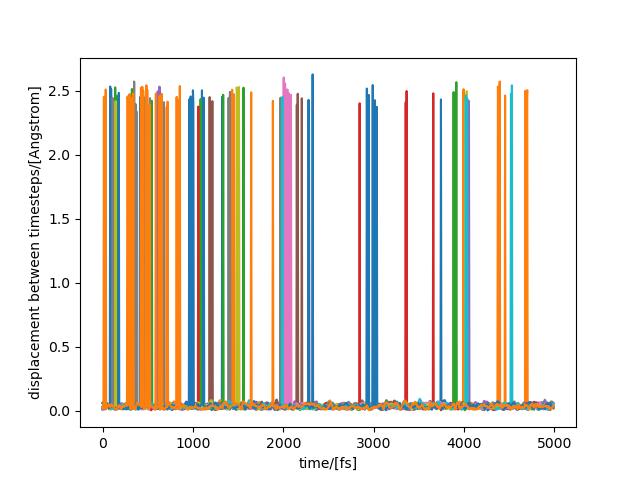
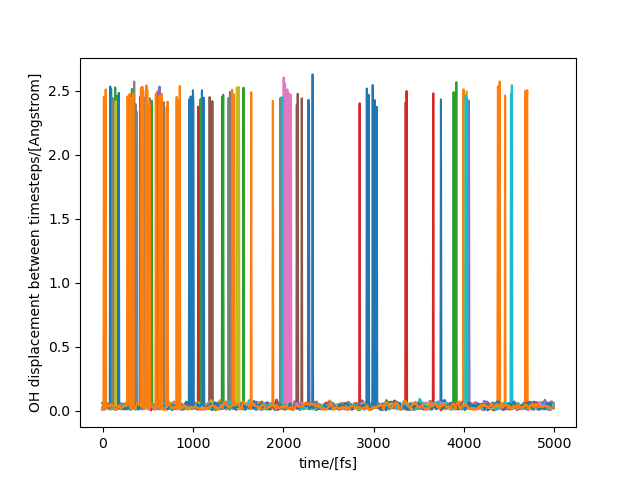
new results, new errors

Changed region(s): [[0.0312, 0.1562, 0.0625, 0.875]]

diff --git a/post-processing scripts/KOH systems/mpi_python.py b/post-processing scripts/KOH systems/mpi_python.py
@@ -70,8 +70,7 @@ class Prot_Hop:
                     data_s = self.df.structure[:].to_dict()
                     data_f = self.df.force[:].to_dict()
                 except:
-                    skips = 10
-                    print("no ML_OUTBLOCK in INCAR, skips is set to 10", flush=True)
+                    skips = 1
                     data_s = self.df.structure[skips-1::skips].to_dict()
                     data_f = self.df.force[skips-1::skips].to_dict()
                 
@@ -104,10 +103,13 @@ class Prot_Hop:
                 # load new forces and add to old array
                 force = data_f['forces']
                 self.force = np.concatenate((self.force, force), axis=0)
+
+        self.t = np.arange(self.pos_all.shape[0])*self.dt
         
         # After putting multiple simulations together
         self.pos_all_split = np.array_split(self.pos_all, self.size, axis=0)
         self.force_split = np.array_split(self.force, self.size, axis=0)
+        self.t_split = np.array_split(self.t, self.size)
 
         # calculate chunk sizes for communication
         self.chunks = [int]*self.size
@@ -167,11 +169,13 @@ class Prot_Hop:
             self.pos_all_split = [np.empty((self.chunks[i], self.N_tot, 3)) for i in range(self.size)]  # create empty dumy on all cores
             self.force_split = [np.empty((self.chunks[i], self.N_tot, 3)) for i in range(self.size)]  # create empty dumy on all cores
             self.steps_split = [np.empty(self.chunks[i]) for i in range(self.size)]
+            self.t_split = [np.empty(self.chunks[i]) for i in range(self.size)]
 
         # Import the correct split position arrays
         self.pos = self.comm.scatter(self.pos_all_split, root=0)
         self.force = self.comm.scatter(self.force_split, root=0)
         self.steps = self.comm.scatter(self.steps_split, root=0)
+        self.t = self.comm.scatter(self.t_split, root=0)
         
         self.n_max = len(self.pos[:, 0, 0])  # number of timestep on core
         self.n_max_all = self.comm.allreduce(self.n_max, op=MPI.SUM)
@@ -184,7 +188,7 @@ class Prot_Hop:
         self.cheap = self.comm.bcast(self.cheap, root=0)
                     
         if self.rank == 0 and self.verbose is True:
-            print('Time after communication', time.time() - self.tstart)
+            print('Time after communication', time.time() - self.tstart, flush=True)
 
     def recognize_molecules(self, n):
         """
@@ -233,10 +237,18 @@ class Prot_Hop:
             self.OH_i_s = OH_i  # set this in the first timestep
         else:
             if self.N_OH != self.n_OH[n] or self.n_H3O[n] > 0:  # Exemption for H3O+ cases
-                print(f"Strange behaviour found, H3O+ created. Rank", self.rank, 'timestep ', self.steps[n])
+                print(f"Strange behaviour found, H3O+ created. Rank", self.rank, 'timestep ', self.t[n])
                 print(f"N_H3O+", self.n_H3O[n], 'N_OH', self.n_OH[n], flush=True)
+                
+                # issues = np.setdiff1d(OH_i, self.OH_i[n])
+                # for i in issues:
+                self.OH_i[n, :] = self.OH_i[n-1, :]  # use origional sorting by using last version as nothing changed
+                self.OH[n, :, :] = self.pos_O[n, self.OH_i[n, :], :] + self.L*self.OH_shift
+                
+                self.H2O_i[n, :] = self.H2O_i[n-1, :]  # use origional sorting by using last version as nothing changed
+                self.H2O[n, :, :] = self.pos_O[n, self.H2O_i[n, :], :] + self.L*self.H2O_shift
 
-            if (OH_i == self.OH_i_s).all():  # No reaction occured only check PBC
+            elif (OH_i == self.OH_i_s).all():  # No reaction occured only check PBC
                 self.OH_i[n, :] = self.OH_i[n-1, :]  # use origional sorting by using last version as nothing changed
                 self.OH[n, :, :] = self.pos_O[n, self.OH_i[n, :], :] + self.L*self.OH_shift
                 
@@ -259,7 +271,7 @@ class Prot_Hop:
 
                     if d2[i_n] > 9:  # excape when jump too large
                         print("Strange behaviour found, reaction jump too far, d = ", np.sqrt(d2[i_n]), 'Angstrom',
-                                        "CPU rank=", self.rank, 'timestep', self.steps[n], flush=True)
+                              "CPU rank=", self.rank, 'timestep', self.steps[n], flush=True)
 
                     idx_OH_i = np.where(self.OH_i[n-1, :] == diff_old[i]) # get index in OH_i storage list
                     self.OH_i[n, idx_OH_i] = diff_new[i_n]  # update OH_i storage list
@@ -277,14 +289,15 @@ class Prot_Hop:
                     # Adjust for different PBC shifts in reaction
                     dis = (self.pos_O[n, self.H2O_i[n, idx_H2O_i], :] - self.pos_O[n-1, self.H2O_i[n-1, idx_H2O_i], :] + self.L/2) % self.L - self.L/2   # displacement vs old location
                     real_loc =self.pos_O[n-1, self.H2O_i[n-1, idx_H2O_i], :] + dis
-                    self.H2O_shift[idx_H2O_i, :] += np.round(real_loc - self.pos_O[n, self.H2O_i[n, idx_H2O_i], :]).astype(int)  # Correct shifting update for index
+                    self.H2O_shift[idx_H2O_i, :] += np.round((real_loc - self.pos_O[n, self.H2O_i[n, idx_H2O_i], :])/self.L).astype(int)  # Correct shifting update for index
+                    
                 
                 # Update all the positions
                 self.OH[n, :, :] = self.pos_O[n, self.OH_i[n, :], :] + self.L*self.OH_shift
                 self.H2O[n, :, :] = self.pos_O[n, self.H2O_i[n, :], :]+ self.L*self.H2O_shift
                 self.OH_i_s = OH_i  # always sort after reaction or initiation to have a cheap check lateron.
 
-    def loop_timesteps_all(self, n_samples=1): 
+    def loop_timesteps_all(self, n_samples=10): 
         """This function loops over all timesteps and tracks all over time properties
         
         The function tracks calls the molecule recognition function and the rdf functions when needed.
@@ -407,6 +420,9 @@ class Prot_Hop:
         # prepair gethering on all cores 1) All H3O+ stuf   f
         self.n_H3O = self.comm.gather(self.n_H3O, root=0)
         
+        # gather the time arrays as well
+        self.t = self.comm.gather(self.t, root=0)
+        
         # RDF's
         # First rescale all RDFs accordingly also prepaire for averaging using mpi.sum
         self.r_cent = (self.r[:-1] + self.r[1:])/2  # central point of rdf bins
@@ -486,7 +502,7 @@ class Prot_Hop:
                     self.H2O[n+1][:, [index, b_index[0]], :] = self.H2O[n+1][:, [b_index[0], index], :]
                     self.H2O_shift[n+1][[index, b_index[0]], :] = self.H2O_shift[n+1][[b_index[0], index], :]
             
-            #### this part only activates if there are reactions at stichting location
+            #### these two for loops only activate if there are reactions at stichting location
             idx_H2O = np.zeros_like(H2O_not_found, dtype=int)
             for i, H2O_i in enumerate(H2O_not_found):
                 idx_H2O[i] = np.where(self.H2O_i[n][-1, :] == H2O_i)[0][0]
@@ -508,13 +524,18 @@ class Prot_Hop:
                 OH_new = H2O_old
                 H2O_new = OH_old
                 
-                # check if index of OH_new is already the right one
                 idx_OH_new = np.where(self.OH_i[n+1][0, :] == OH_new)[0][0]
+                idx_H2O_new = np.where(self.H2O_i[n+1][0, :] == H2O_new)[0][0]
+                # check if index of OH_new is already the right one
+                
+                if self.verbose is True:
+                    print('matching up OH', OH_old, OH_new, idx_OH_old, idx_OH_new)
+                    print('matching up H2O', H2O_old, H2O_new, idx_H2O_old, idx_H2O_new)
                 if idx_OH_new != idx_OH_old: ## if not, swap around
                     self.OH_i[n+1][:, [idx_OH_old, idx_OH_new]] = self.OH_i[n+1][:, [idx_OH_new, idx_OH_old]]
                     self.OH[n+1][:, [idx_OH_old, idx_OH_new], :] = self.OH[n+1][:, [idx_OH_new, idx_OH_old], :]
                     self.OH_shift[n+1][[idx_OH_old, idx_OH_new], :] = self.OH_shift[n+1][[idx_OH_new, idx_OH_old], :]
-                idx_H2O_new = np.where(self.H2O_i[n+1][0, :] == H2O_new)[0][0]
+                
                 if idx_H2O_new != idx_H2O_old: ## if not, swap around
                     self.H2O_i[n+1][:, [idx_H2O_new, idx_H2O_new]] = self.H2O_i[n+1][:, [idx_H2O_new, idx_H2O_old]]
                     self.H2O[n+1][:, [idx_H2O_old, idx_H2O_new], :] = self.H2O[n+1][:, [idx_H2O_new, idx_H2O_old], :]
@@ -522,10 +543,16 @@ class Prot_Hop:
                 # so now we now for sure that idx_H2O_old=idx_H2O_new and index_OH_old=index_OH_new
                 # and that H2O_old=OH_new and that OH_old=H2O_new
                 
-                # Only check for pbc during a reaction for the OH and the H2O
+                # Only check for pbc during a reaction for the OH
                 dis = (self.OH[n+1][0, idx_OH_old, :] - self.OH[n][-1, idx_OH_old, :] + self.L/2) % self.L - self.L/2
                 real_loc = self.OH[n][-1, idx_OH_old, :] + dis
-                self.OH_shift[]
+                self.OH_shift[n][idx_OH_old, :] = np.round((real_loc - self.OH[n+1][0, idx_OH_old, :])/self.L).astype(int)
+                print(self.OH_shift[n][idx_OH_old, :], self.OH_shift[n+1][idx_OH_old, :])
+                
+                # Only check for pbc during a reaction for the H2O
+                dis = (self.H2O[n+1][0, idx_H2O_old, :] - self.H2O[n][-1, idx_H2O_old, :] + self.L/2) % self.L - self.L/2
+                real_loc = self.H2O[n][-1, idx_H2O_old, :] + dis
+                self.H2O_shift[n][idx_H2O_old, :] = np.round((real_loc - self.H2O[n+1][0, idx_H2O_old, :])/self.L).astype(int)
             #### Till here
 
             # Now adjust for passing PBC in the shift collumns. OH-
@@ -553,7 +580,7 @@ class Prot_Hop:
         # RDF functionality has no need to do anything
         
         # Getting a time array
-        self.t = np.arange(self.OH_i.shape[0])*self.dt
+        self.t = np.concatenate(self.t, axis=0)
 
     def test_combining(self):
         if self.rank == 0:
@@ -588,8 +615,18 @@ class Prot_Hop:
                 plt.figure()
                 plt.plot(self.t[:-1], disp)
                 plt.xlabel('time/[fs]')      
-                plt.ylabel('displacement between timesteps/[Angstrom]')
+                plt.ylabel('OH displacement between timesteps/[Angstrom]')
                 plt.savefig(path + r'/dis_OH.png')
+                plt.close()
+                
+                disp = np.sqrt(np.sum((self.H2O[1:, :, :]- self.H2O[:-1, :, :])**2, axis=2))
+                plt.figure()
+                plt.plot(self.t[:-1], disp)
+                # for i in range(1, self.size):
+                #     plt.axvline(x=self.t[-1]*i/self.size, color = 'c')
+                plt.xlabel('time/[fs]')      
+                plt.ylabel('H2O displacement between timesteps/[Angstrom]')
+                plt.savefig(path + r'/dis_H2O.png')
                 plt.close()
                 
                 plt.figure()
@@ -662,11 +699,21 @@ class Prot_Hop:
                 disp = np.sqrt(np.sum((self.OH[1:, :, :]- self.OH[:-1, :, :])**2, axis=2))
                 plt.figure()
                 plt.plot(self.t[:-1], disp)
-                for i in range(1, self.size):
-                    plt.axvline(x=self.t[-1]*i/self.size, color = 'c')
+                # for i in range(1, self.size):
+                #     plt.axvline(x=self.t[-1]*i/self.size, color = 'c')
                 plt.xlabel('time/[fs]')      
-                plt.ylabel('displacement between timesteps/[Angstrom]')
+                plt.ylabel('OH displacement between timesteps/[Angstrom]')
                 plt.savefig(path + r'/dis_OH.png')
+                plt.close()
+                
+                disp = np.sqrt(np.sum((self.H2O[1:, :, :]- self.H2O[:-1, :, :])**2, axis=2))
+                plt.figure()
+                plt.plot(self.t[:-1], disp)
+                # for i in range(1, self.size):
+                #     plt.axvline(x=self.t[-1]*i/self.size, color = 'c')
+                plt.xlabel('time/[fs]')      
+                plt.ylabel('H2O displacement between timesteps/[Angstrom]')
+                plt.savefig(path + r'/dis_H2O.png')
                 plt.close()
                 
                 plt.figure()
@@ -685,7 +732,7 @@ class Prot_Hop:
 # Traj = Prot_Hop(r"/mnt/c/Users/vlagerweij/Documents/TU jaar 6/Project KOH(aq)/Repros/RPBE_Production/MLMD/100ps_Exp_Density/i_1")
 # Traj = Prot_Hop(r"/Users/vlagerweij/Documents/TU jaar 6/Project KOH(aq)/Repros/RPBE_Production/MLMD/100ps_Exp_Density/i_1")
 # Traj = Prot_Hop(r"/Users/vlagerweij/Documents/TU jaar 6/Project KOH(aq)/Repros/RPBE_Production/AIMD/10ps/i_1/")
-Traj = Prot_Hop(r"/Users/vlagerweij/Documents/TU jaar 6/Project KOH(aq)/Repros/Quantum_to_Transport/post-processing scripts/KOH systems/test_output/", verbose=True)
-# Traj = Prot_Hop(r"/Users/vlagerweij/Documents/TU jaar 6/Project KOH(aq)/Repros/Quantum_to_Transport/post-processing scripts/KOH systems/test_output/longest_up_till_now", verbose=True)
+# Traj = Prot_Hop(r"/Users/vlagerweij/Documents/TU jaar 6/Project KOH(aq)/Repros/Quantum_to_Transport/post-processing scripts/KOH systems/test_output/", verbose=True)
+Traj = Prot_Hop(r"/Users/vlagerweij/Documents/TU jaar 6/Project KOH(aq)/Repros/Quantum_to_Transport/post-processing scripts/KOH systems/test_output/longest_up_till_now", verbose=True)
 
 # Traj = Prot_Hop(r"/home/jelle/simulations/RPBE_Production/6m/AIMD/i_1/part_1/")

diff --git a/post-processing scripts/KOH systems/testcase_rdfs.py b/post-processing scripts/KOH systems/testcase_rdfs.py
@@ -1,11 +1,13 @@
 import numpy as np
 import matplotlib.pyplot as plt
 import scipy as sp
+import os
 
-path = r'C:\Users\vlagerweij\Documents\TU jaar 6\Project KOH(aq)\Progress_meeting_14/Figures'
+path = r'C:\Users\vlagerweij\Documents\TU jaar 6\Project KOH(aq)\Progress_meeting_17/figures'
 
-
-loaded = np.load("/Users/vlagerweij/Documents/TU jaar 6/Project KOH(aq)/Repros/Quantum_to_Transport/post-processing scripts/KOH systems/test_output/combined_simulation/single_core.npz")
+load = "/Users/vlagerweij/Documents/TU jaar 6/Project KOH(aq)/Repros/Quantum_to_Transport/post-processing scripts/KOH systems/test_output/combined_simulation/single_core/output.npz"
+load = os.path.normpath(load)
+loaded = np.load(load)
 
 r = loaded['r_rdf']
 rdf_H2OH2O = loaded['rdf_H2OH2O']

diff --git a/post-processing scripts/KOH systems/testcase.py b/post-processing scripts/KOH systems/testcase.py
@@ -1,11 +1,10 @@
 import numpy as np
 
 # Create an empty zero-length array
-empty_array = np.empty(0)
+N_OH = 3
+OH_0 = np.array([1, 2, 3])
+OH_i = np.array([1, 2, 3, 4])
 
 # Append items to the array
-empty_array = np.append(empty_array, 1)
-empty_array = np.append(empty_array, 2)
-empty_array = np.append(empty_array, 3)
-
-print(empty_array)
+c = np.setdiff1d(OH_i, OH_0)
+print(c)
